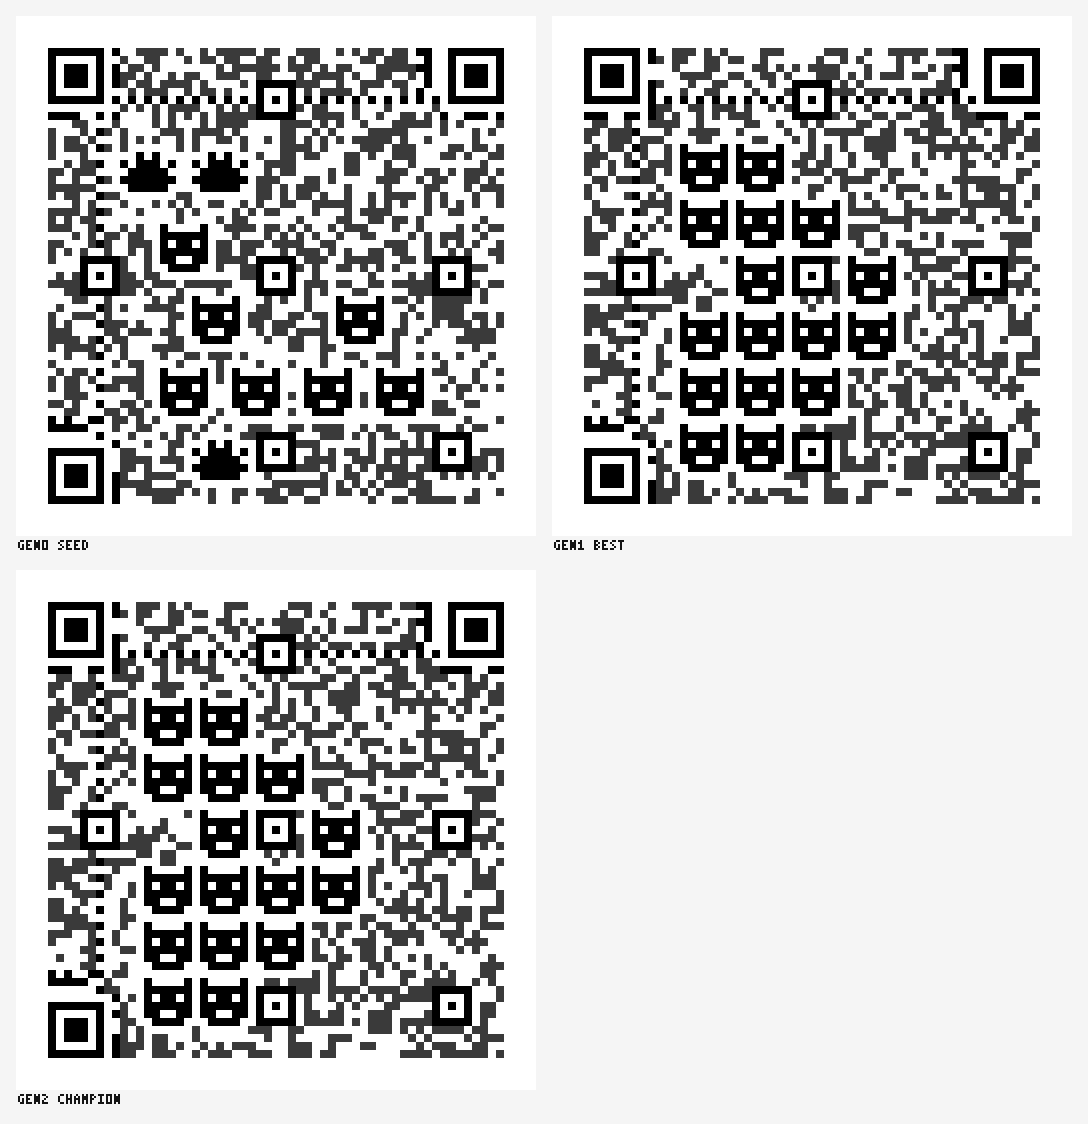
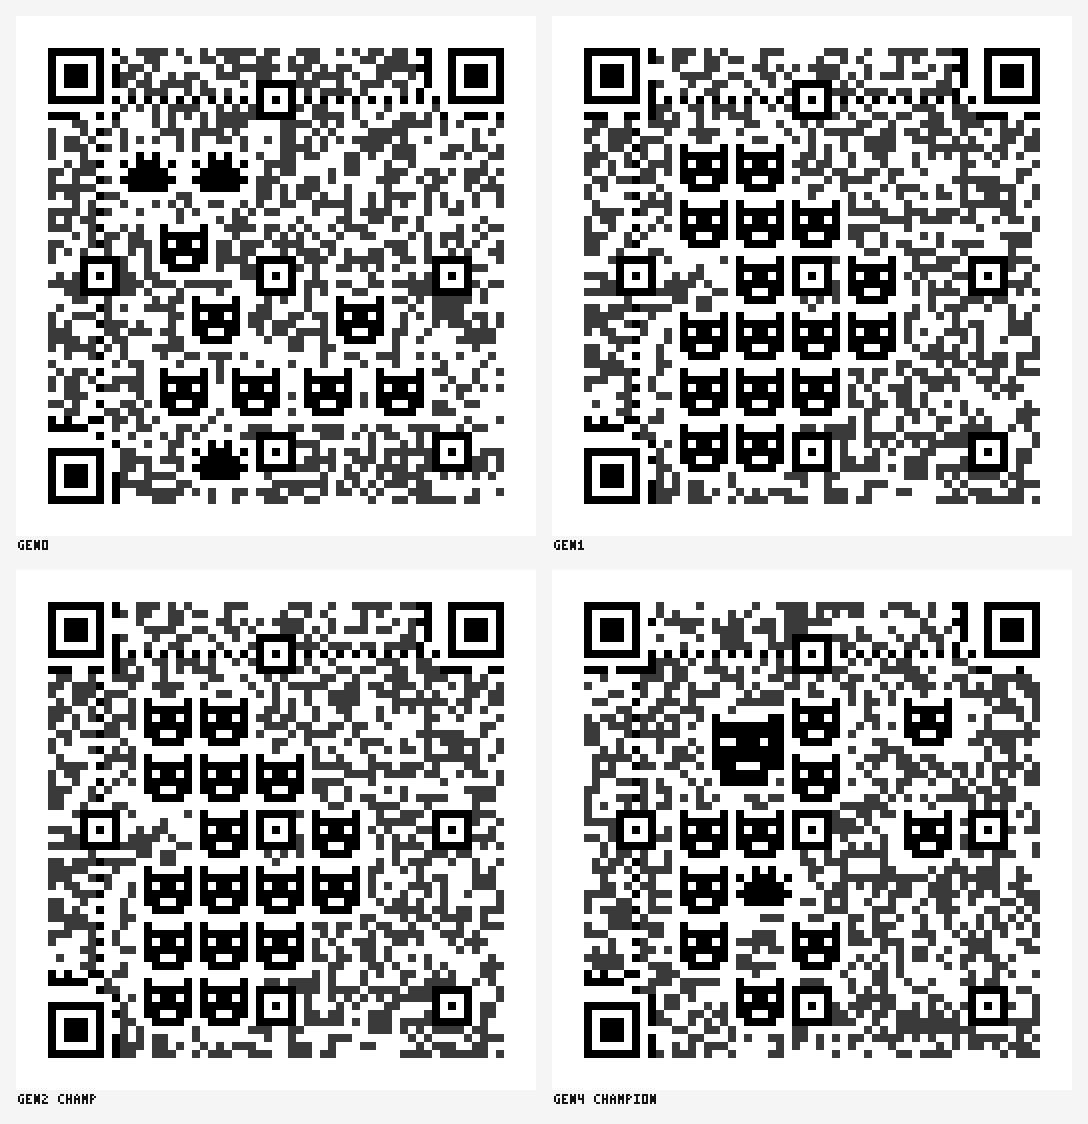
GA generations 3-4: representation restart breaks the plateau
Enriched the genome (typePattern, shear, scalePattern, focal) after gen
2 plateaued at uniform grids. Gen 4 crowns two new champions: the
mama-cat composition (focal 1.5x cat with small faces flowing around
it) and the diagonal-drift texture field. Report documents the
trajectory (75 -> 85 -> 86 -> 86 -> 88), the focal-gene furniture bug
and fix, and the stopping rule. Both champions jsQR-verified.

Claude-Session: https://claude.ai/code/session_0158kcuAWabeTm161BUonDiU

Changed region(s): [[0.5, 0.5294, 0.9688, 0.9964]]

diff --git a/hex/wild-qr/out/evolve-report.md b/hex/wild-qr/out/evolve-report.md
@@ -49,3 +49,34 @@ where the code stops looking like a code and starts looking like gift wrap.
 Both encode `https://github.com/minigolf2000/cat-games` (scheme+host case
 remix), v10-L, three-tone gray ground, ≥2 codewords of RS headroom per block.
 Reproduce: `node evolve-cat.mjs render out/evolve-ga/g2-champcat.json <out>`.
+
+## Generations 3–4: the representation restart
+
+Gen 2 had plateaued (best fitness ~86, improvements down to cosmetic
+shuffles) — the classic sign that the *genome*, not the search, was the
+ceiling: 8 lattice genes can only describe uniform grids. Instead of more
+generations, the genome was enriched with four new genes: `typePattern`
+(random | row stripes | cat/paw checkerboard), `shear` (diagonal lattice
+flow), `scalePattern` (size rhythm), and `focal` (one 1.5× cat the lattice
+flows around).
+
+- **Gen 3** explored the new axes. Diagonal flow scored ~80 immediately;
+  the focal gene FAILED for a diagnosable reason — the big cat's footprint
+  overlapped the (28,28) alignment pattern and was furniture-skipped.
+  (Aesthetic-GA lesson: inspect failures; they're often placement bugs, not
+  bad genes.)
+- **Gen 4** recombined winners: `focalfix` (focal moved to furniture-clear
+  (14,16)) scored ~88 — the "mama cat & kittens" composition, hierarchy
+  instead of pure texture — and `diagdense` (~85) delivered dense diagonal
+  drift. The plateau broke: 75 → 85 → 86 → 86 → 88, with the last jump
+  coming from *representation*, not iteration.
+
+Stopped at gen 4: improvement per generation fell back to +2 and the two
+champions occupy distinct aesthetic niches (composition vs texture) —
+plateau + diminishing returns + niche coverage is the stopping rule.
+
+Final champions (both jsQR-verified):
+- **evolve-champion-mama-cat.png** — big focal cat, small faces flowing
+  around it (`out/evolve-ga/g4-focalfix.json`)
+- **evolve-champion-diagonal.png** — dense diagonal-drift face field
+  (`out/evolve-ga/g4-diagdense.json`)
